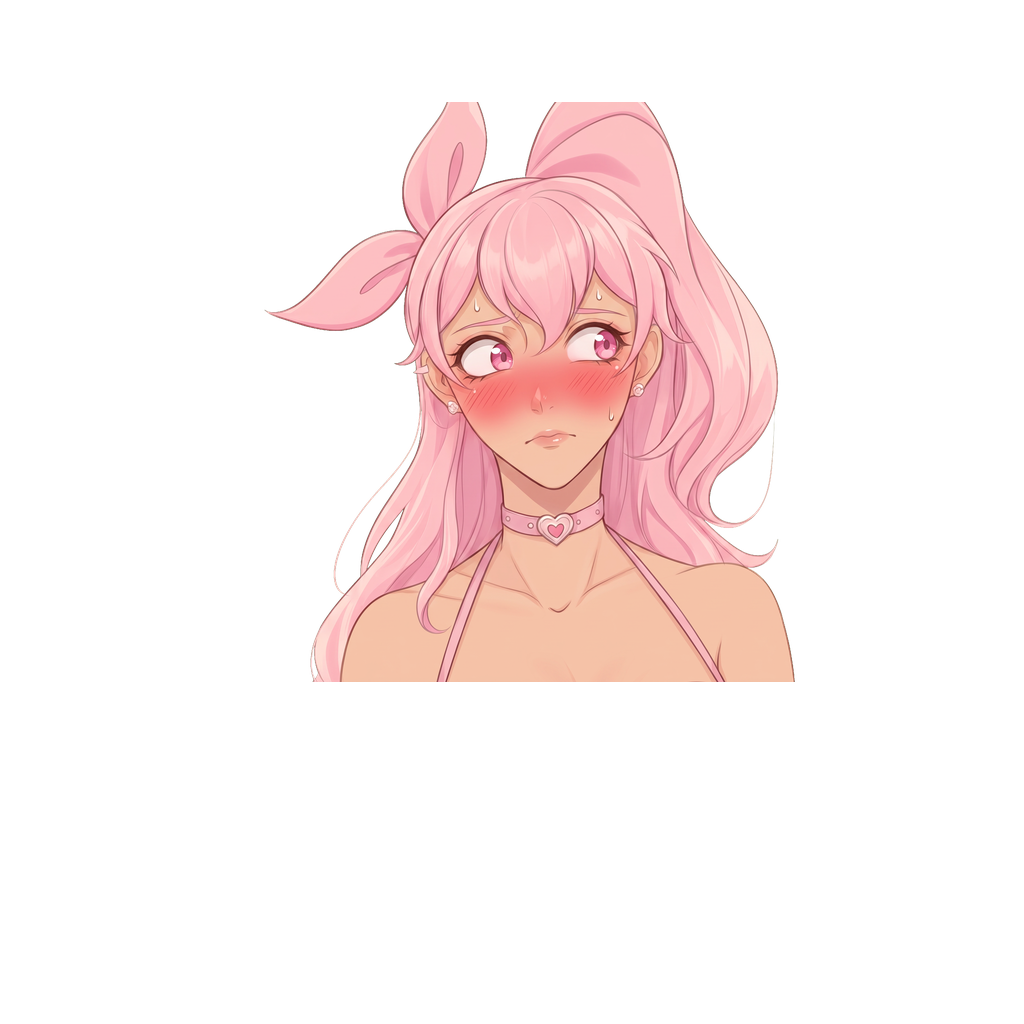
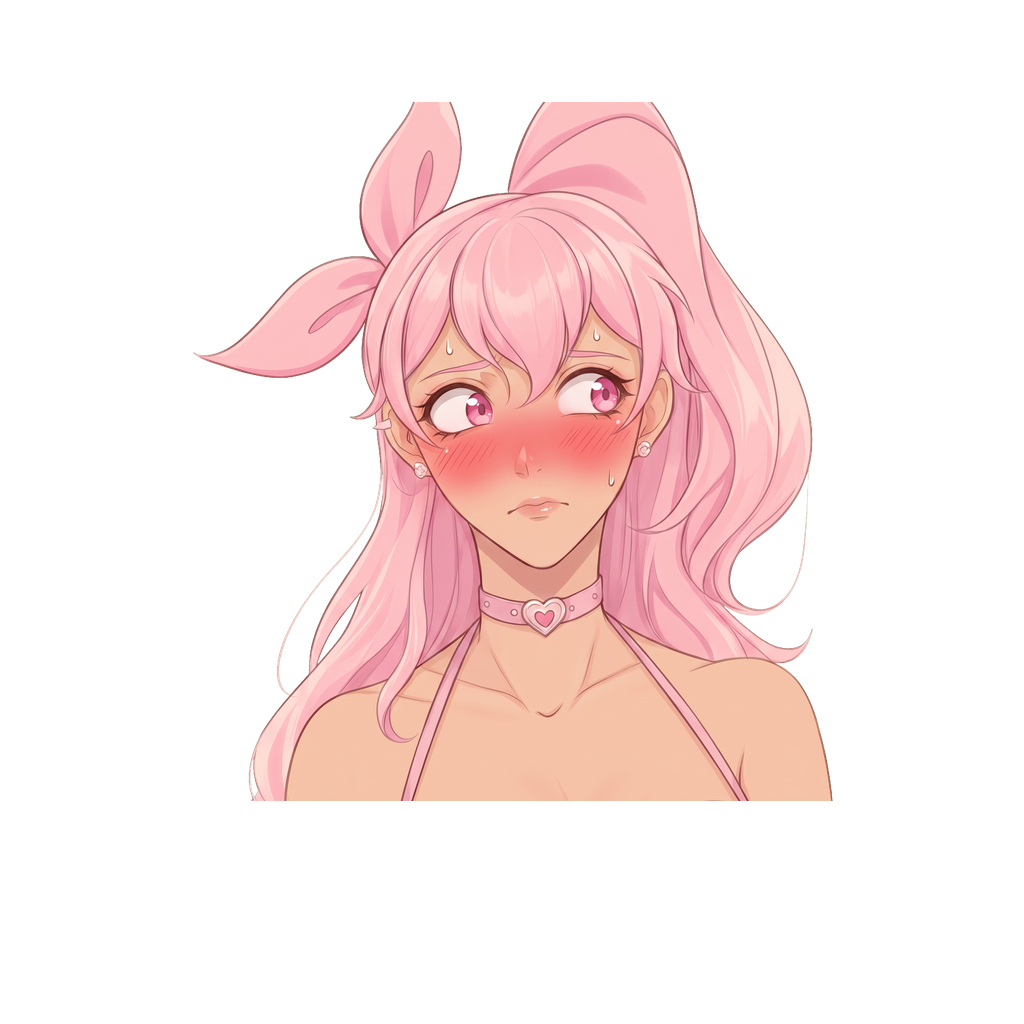
Elenco completo: los 24 gestos de los cuatro
Entra el triste de Ryu, que era el que faltaba.

Y se cambia como se mide la cabeza al alinear: el ancho es ahora el
percentil 75 de las filas y no el maximo. El lazo de Lara es un pico
estrecho que con el maximo la hacia medir un 68% del lienzo frente al 50%
de Reiko, asi que salia encogida en su fila entera. Con el percentil las
cuatro caen en una franja de seis puntos y se ven al mismo tamano.

Claude-Session: https://claude.ai/code/session_01P1J9MJnJUYY8y1kfFtEyNY

Changed region(s): [[0.1875, 0.0938, 0.8125, 0.7812]]

diff --git a/tools/procesa_arte.py b/tools/procesa_arte.py
@@ -95,7 +95,13 @@ def quita_fondo(ruta, dentro=52, fuera=115):
 # --------------------------------------------------------------- alineado
 
 def mide_cabeza(rgba):
-    """(centro x, coronilla y, ancho) medidos sobre el tercio superior."""
+    """(centro x, coronilla y, ancho) medidos sobre el tercio superior.
+
+    El ancho es el percentil 75 de las filas, no el maximo: el lazo de Lara
+    es un pico estrecho que con el maximo la hacia medir un 68% del lienzo
+    frente al 50% de Reiko, y salia encogida al alinear. Con el percentil
+    las cuatro caen en una franja de seis puntos.
+    """
     alfa = np.asarray(rgba)[..., 3] > 128
     filas = np.where(alfa.any(1))[0]
     if len(filas) == 0:
@@ -103,9 +109,12 @@ def mide_cabeza(rgba):
     arriba, abajo = filas[0], filas[-1]
     zona = alfa[arriba:arriba + max(1, int((abajo - arriba) * 0.38))]
     anchos = zona.sum(1)
-    i = int(np.argmax(anchos))
+    ancho = float(np.percentile(anchos[anchos > 0], 75))
+
+    # el centro se toma de una fila de ese ancho, no de la mas ancha
+    i = int(np.argmin(np.abs(anchos.astype(float) - ancho)))
     cols = np.where(zona[i])[0]
-    return (cols[0] + cols[-1]) / 2, float(arriba), float(anchos[i])
+    return (cols[0] + cols[-1]) / 2, float(arriba), ancho
 
 
 def alinea(rgba, lado=LADO_BUSTO, ancho_cabeza=0.46, coronilla=0.10):
